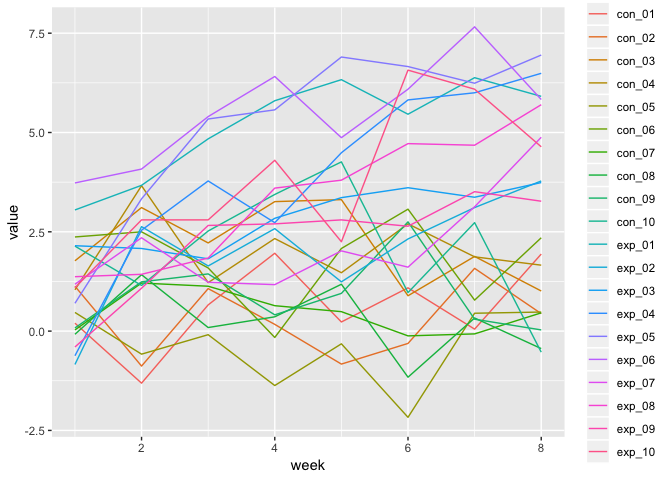
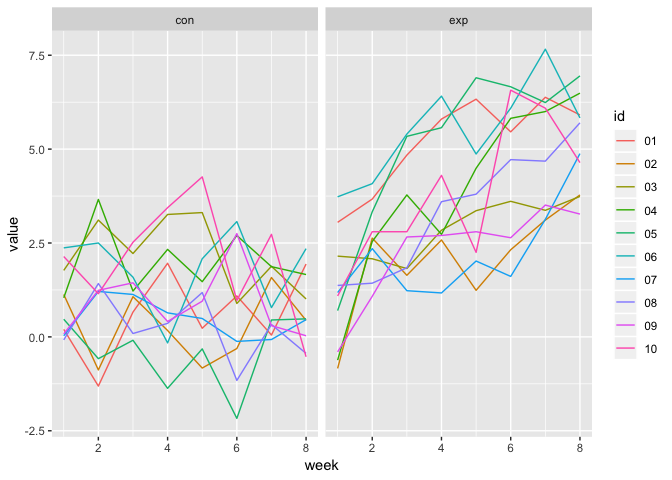
some changes 3

diff --git a/p8105_hw5_xl2836.md b/p8105_hw5_xl2836.md
@@ -49,31 +49,35 @@ hw5_tidied_data =
   unnest() %>% 
   gather(key = week, value = value, week_1:week_8) %>% 
   select(-files_name_wd) %>% 
+  separate(files_name, into = c("groups", "id"), sep = "_") %>% 
   mutate(week = str_replace(week, "week_", "")) %>% 
   mutate(week = as.numeric(week)) %>% 
-  mutate(value = as.numeric(value))
+  mutate(value = as.numeric(value)) 
 
 head(hw5_tidied_data)
 ```
 
-    ## # A tibble: 6 x 3
-    ##   files_name  week value
-    ##   <chr>      <dbl> <dbl>
-    ## 1 con_01         1  0.2 
-    ## 2 con_02         1  1.13
-    ## 3 con_03         1  1.77
-    ## 4 con_04         1  1.04
-    ## 5 con_05         1  0.47
-    ## 6 con_06         1  2.37
+    ## # A tibble: 6 x 4
+    ##   groups id     week value
+    ##   <chr>  <chr> <dbl> <dbl>
+    ## 1 con    01        1  0.2 
+    ## 2 con    02        1  1.13
+    ## 3 con    03        1  1.77
+    ## 4 con    04        1  1.04
+    ## 5 con    05        1  0.47
+    ## 6 con    06        1  2.37
 
 ``` r
 hw5_tidied_data %>% 
-  ggplot(aes(x = week, y = value, color = files_name)) +
+  ggplot(aes(x = week, y = value, color = id)) +
   #geom_point() +
-  geom_line()
+  geom_line() +
+  facet_grid(.~ groups)
 ```
 
 ![](p8105_hw5_xl2836_files/figure-markdown_github/unnamed-chunk-4-1.png)
+
+Through this plot, we can find that the values of subjects in two groups are similar at the beginning. However, the values of subjects in experiment group increased over time while the values of subjects in control group keep the same.
 
 Problem Two
 ===========
@@ -213,6 +217,7 @@ Draw a plot
 city_prop %>% 
   mutate(city = reorder(city, desc(estimate))) %>% 
   ggplot(aes(x = city, y = estimate)) +
+  geom_point() +
   geom_errorbar(aes(ymin = conf_low, ymax = conf_high)) +
   theme(axis.text.x = element_text(angle = 45, hjust = 1))
 ```
